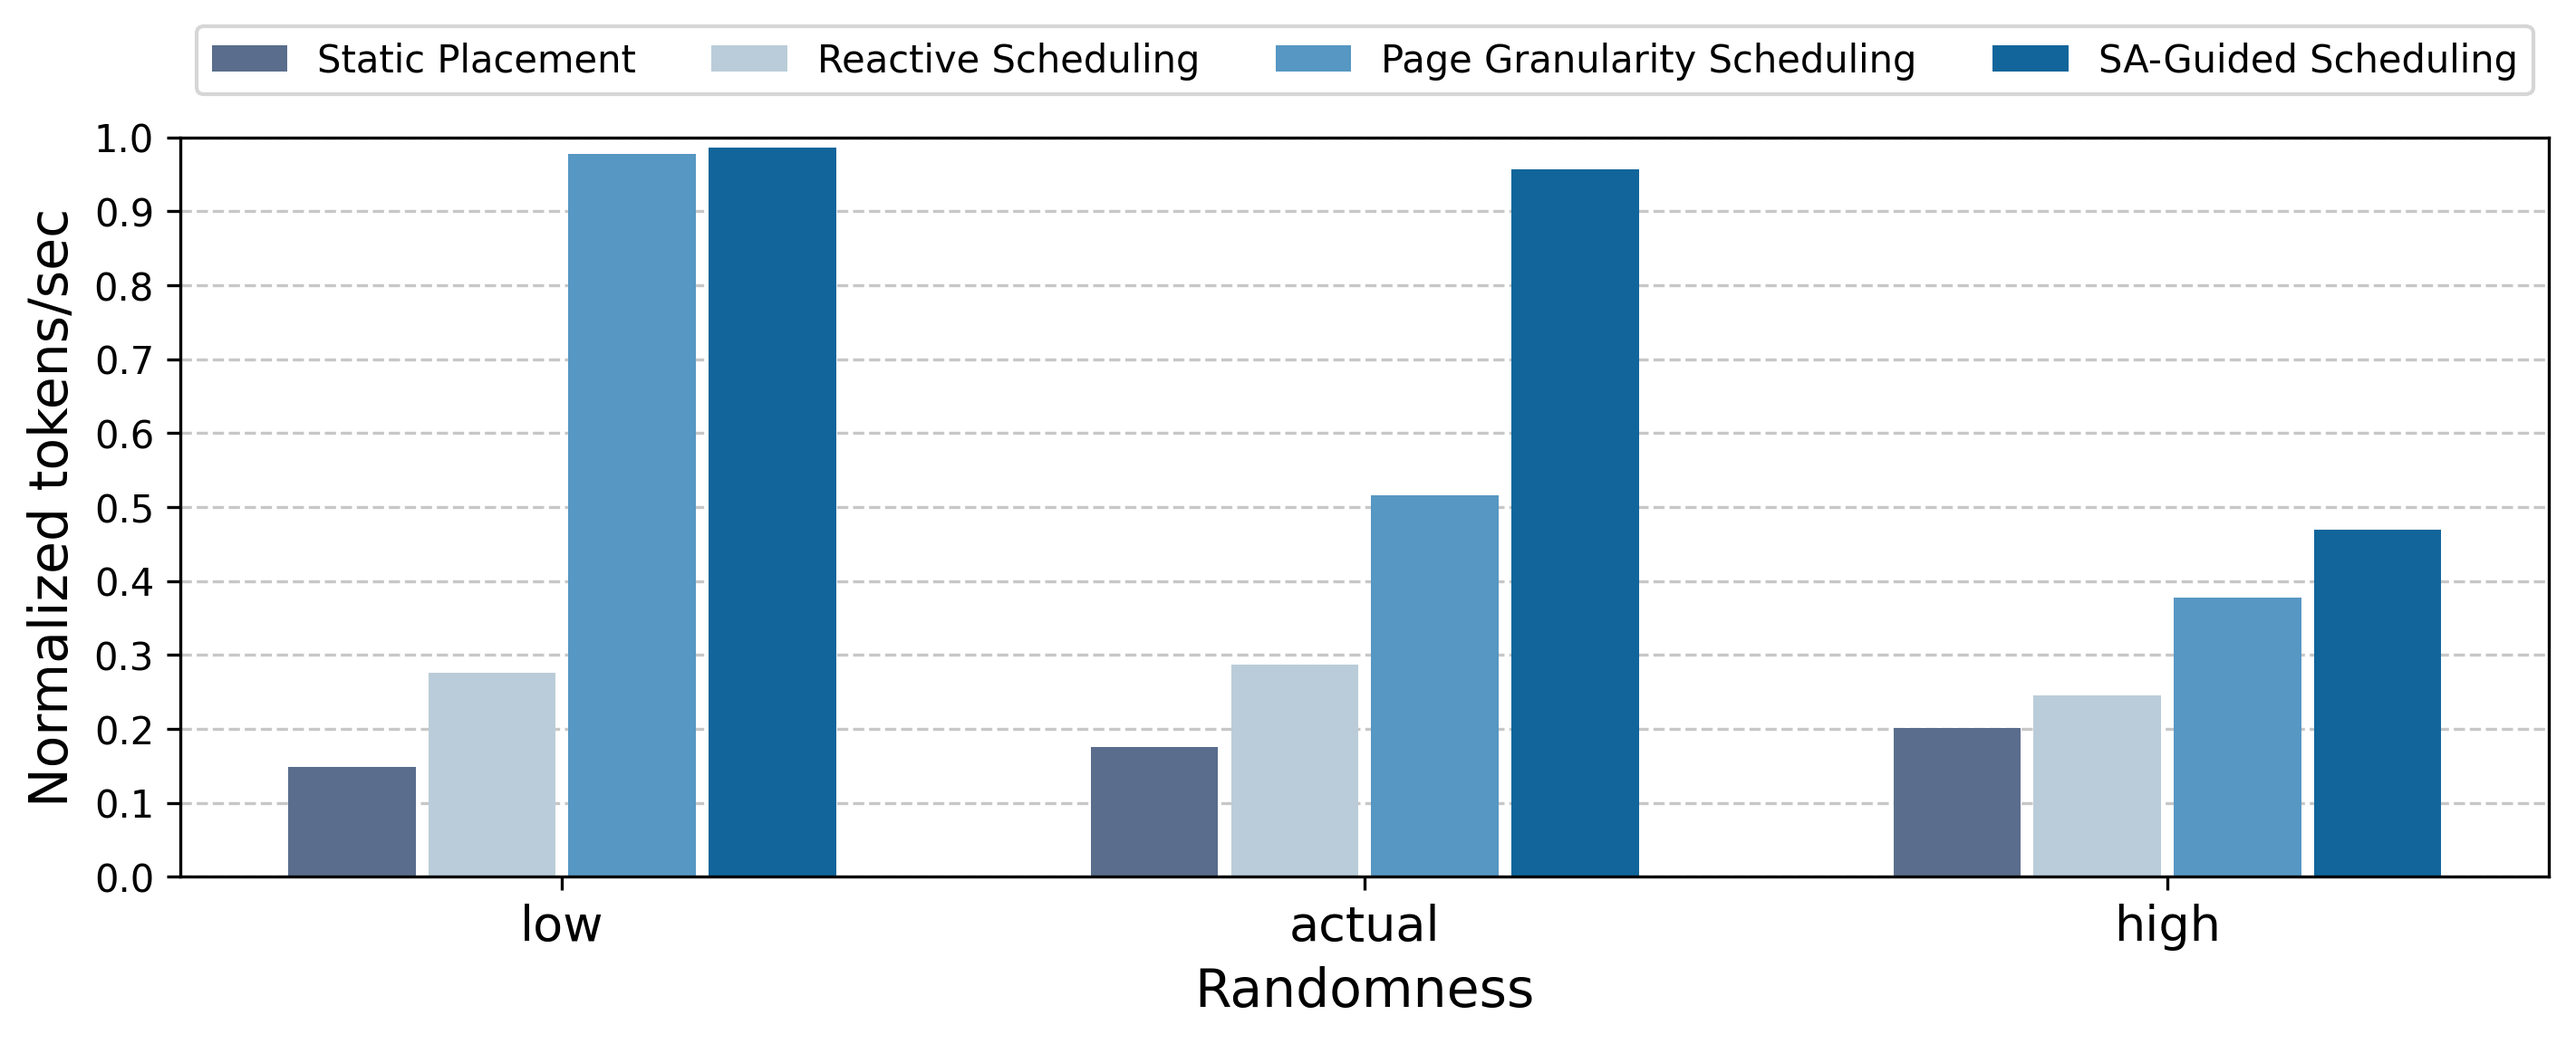
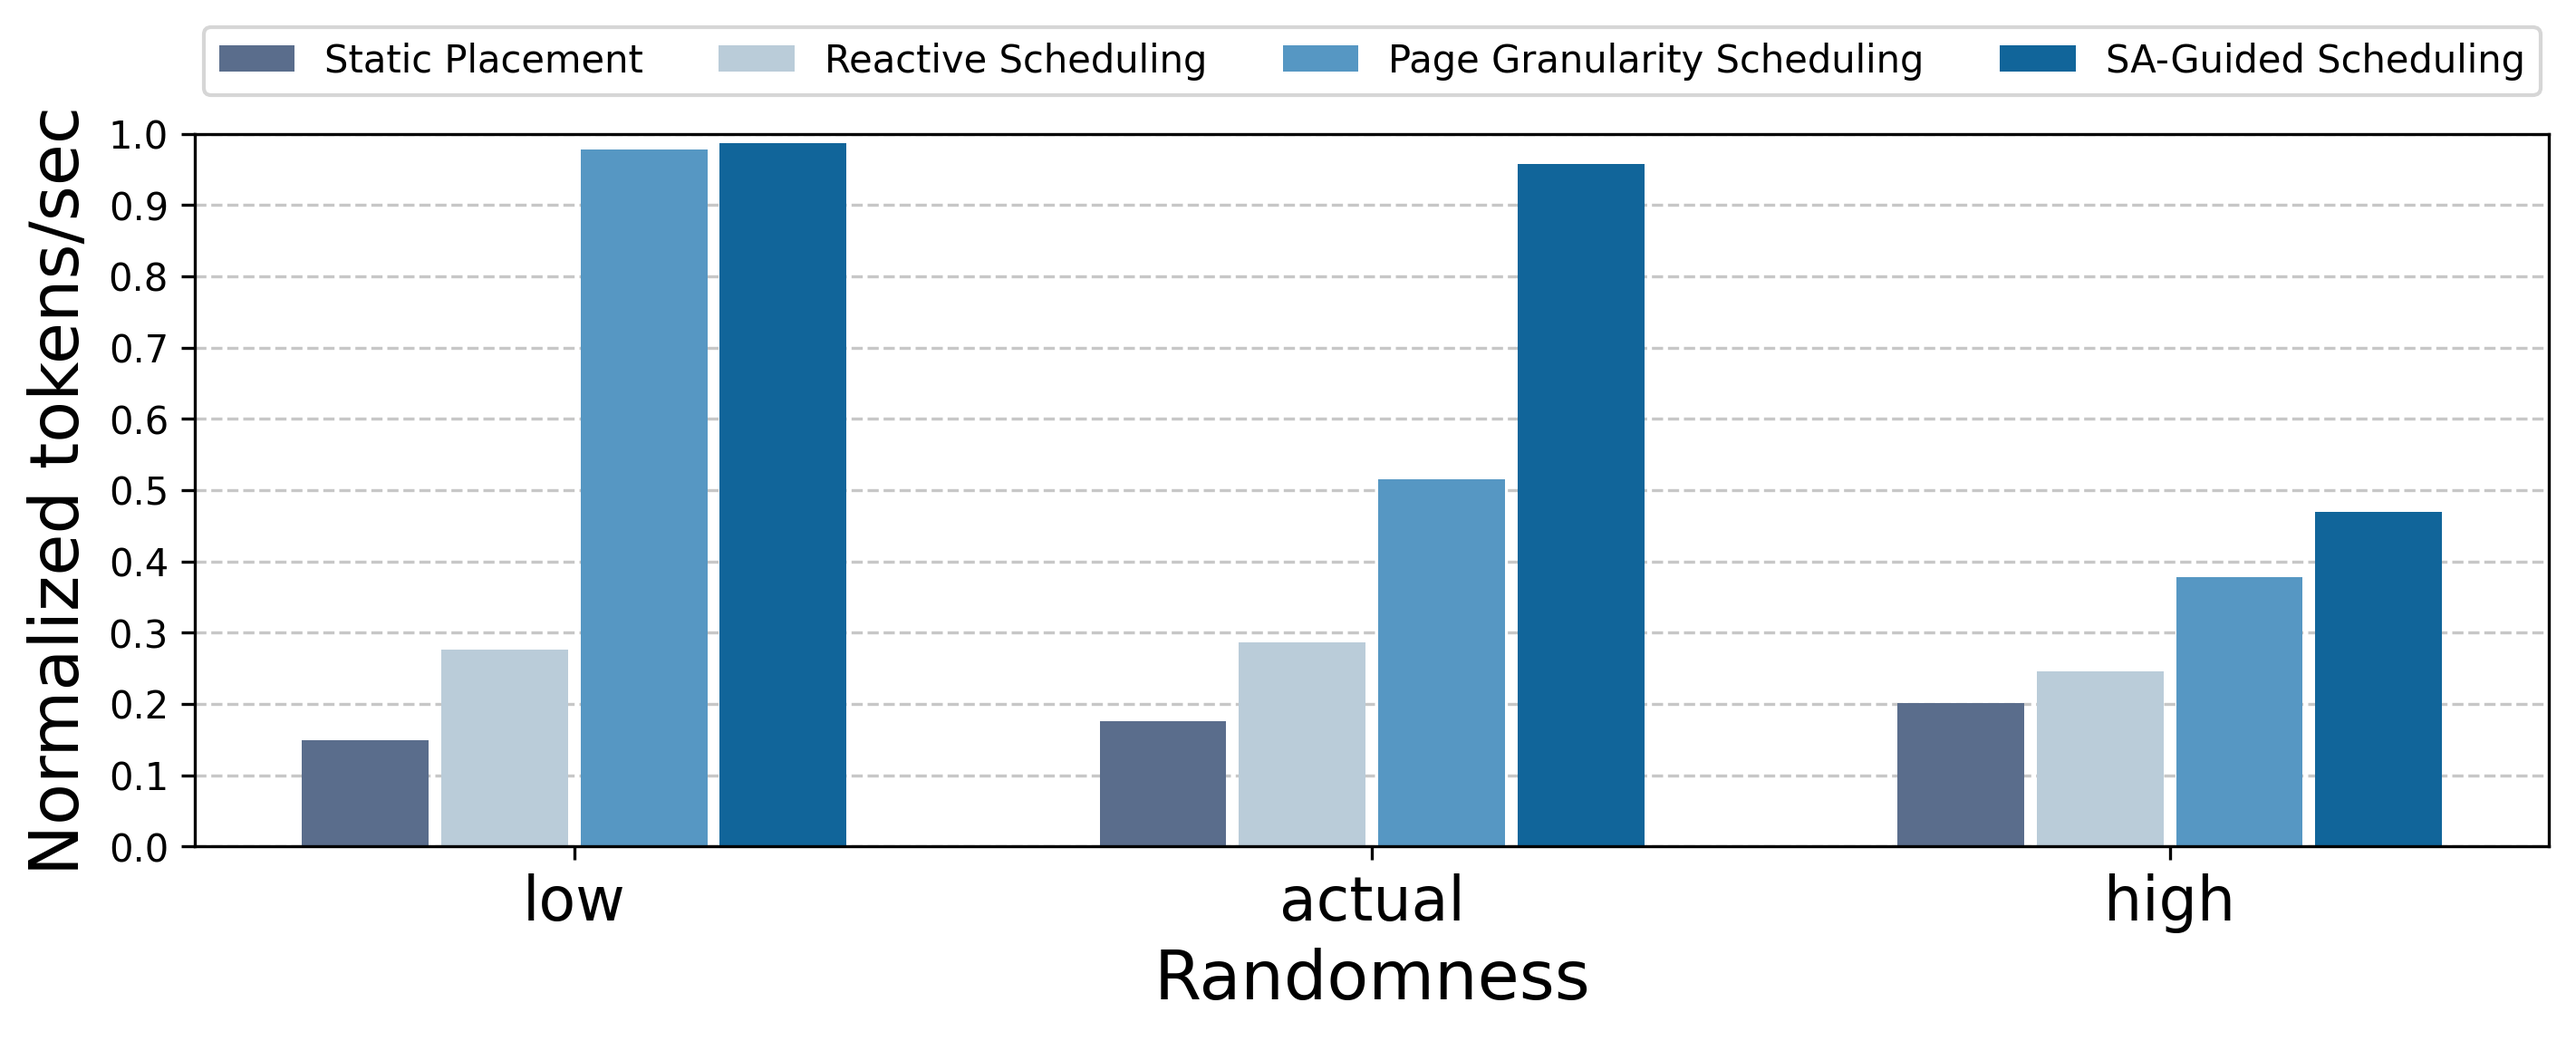
update graph

diff --git a/plot_scripts/plot_bars.py b/plot_scripts/plot_bars.py
@@ -177,10 +177,10 @@ if __name__ == "__main__":
 
         
     # axes labels & ticks
-    ax.set_xlabel('Attention Sparsity (%)', fontsize=14, labelpad=30)
-    ax.set_ylabel('Normalized tokens/sec', fontsize=14)
+    ax.set_xlabel('Attention Sparsity (%)', fontsize=18, labelpad=30)
+    ax.set_ylabel('Normalized tokens/sec', fontsize=16)
     ax.set_xticks(index)
-    ax.set_xticklabels([f"{s}%" for s in sparsities], fontsize=13)
+    ax.set_xticklabels([f"{s}%" for s in sparsities], fontsize=14)
     
     # custom y‐ticks back‐mapped to “real” normalized values
     y_max = max(max(norm[m]) for m in methods) * 1.1

diff --git a/plot_scripts/plot_random_bars.py b/plot_scripts/plot_random_bars.py
@@ -182,10 +182,10 @@ if __name__ == "__main__":
 
         
     # axes labels & ticks
-    ax.set_xlabel('Randomness', fontsize=14)
-    ax.set_ylabel('Normalized tokens/sec', fontsize=14)
+    ax.set_xlabel('Randomness', fontsize=18)
+    ax.set_ylabel('Normalized tokens/sec', fontsize=18)
     ax.set_xticks(index)
-    ax.set_xticklabels(tar_random, fontsize=13)
+    ax.set_xticklabels(tar_random, fontsize=16)
     
     # custom y‐ticks back‐mapped to “real” normalized values
     y_max = max(max(norm[m]) for m in methods) * 1.3
